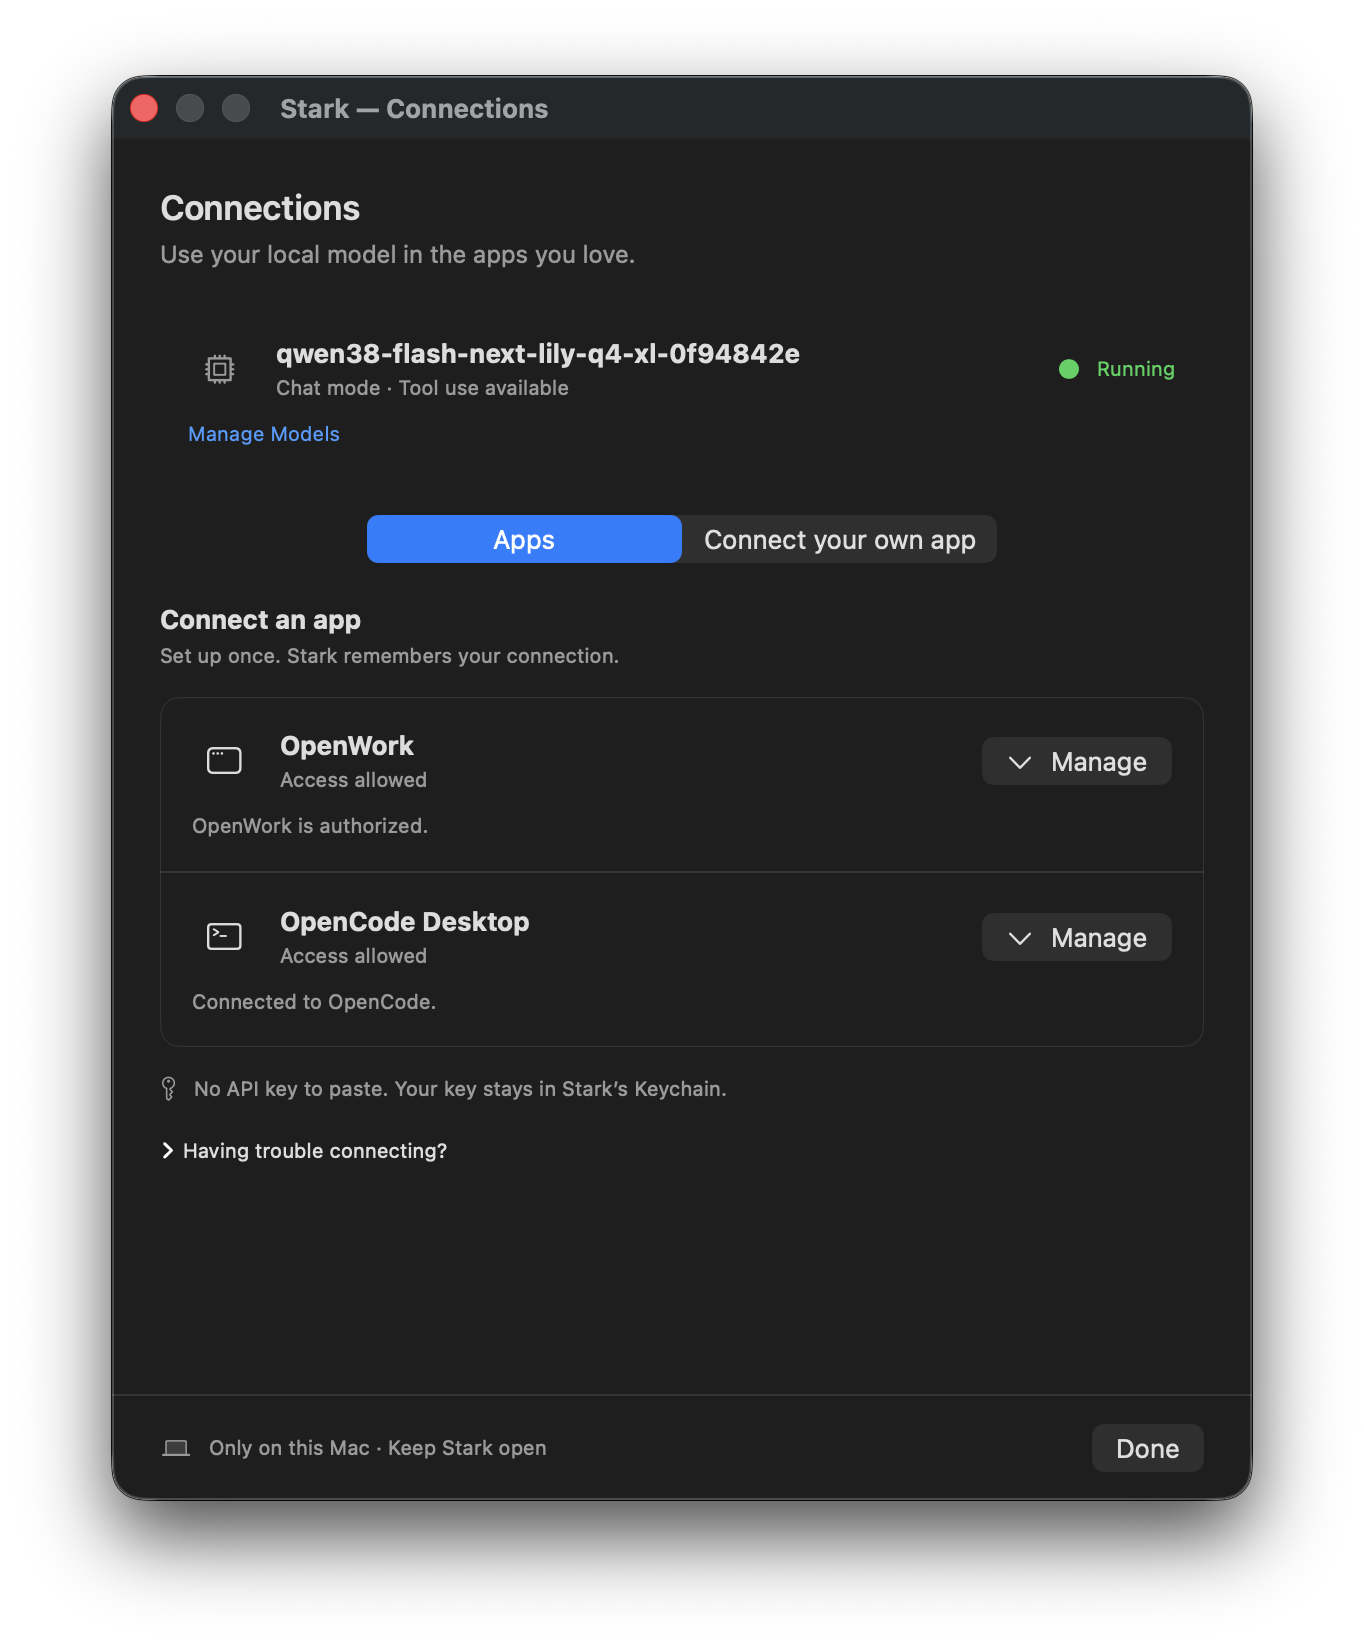
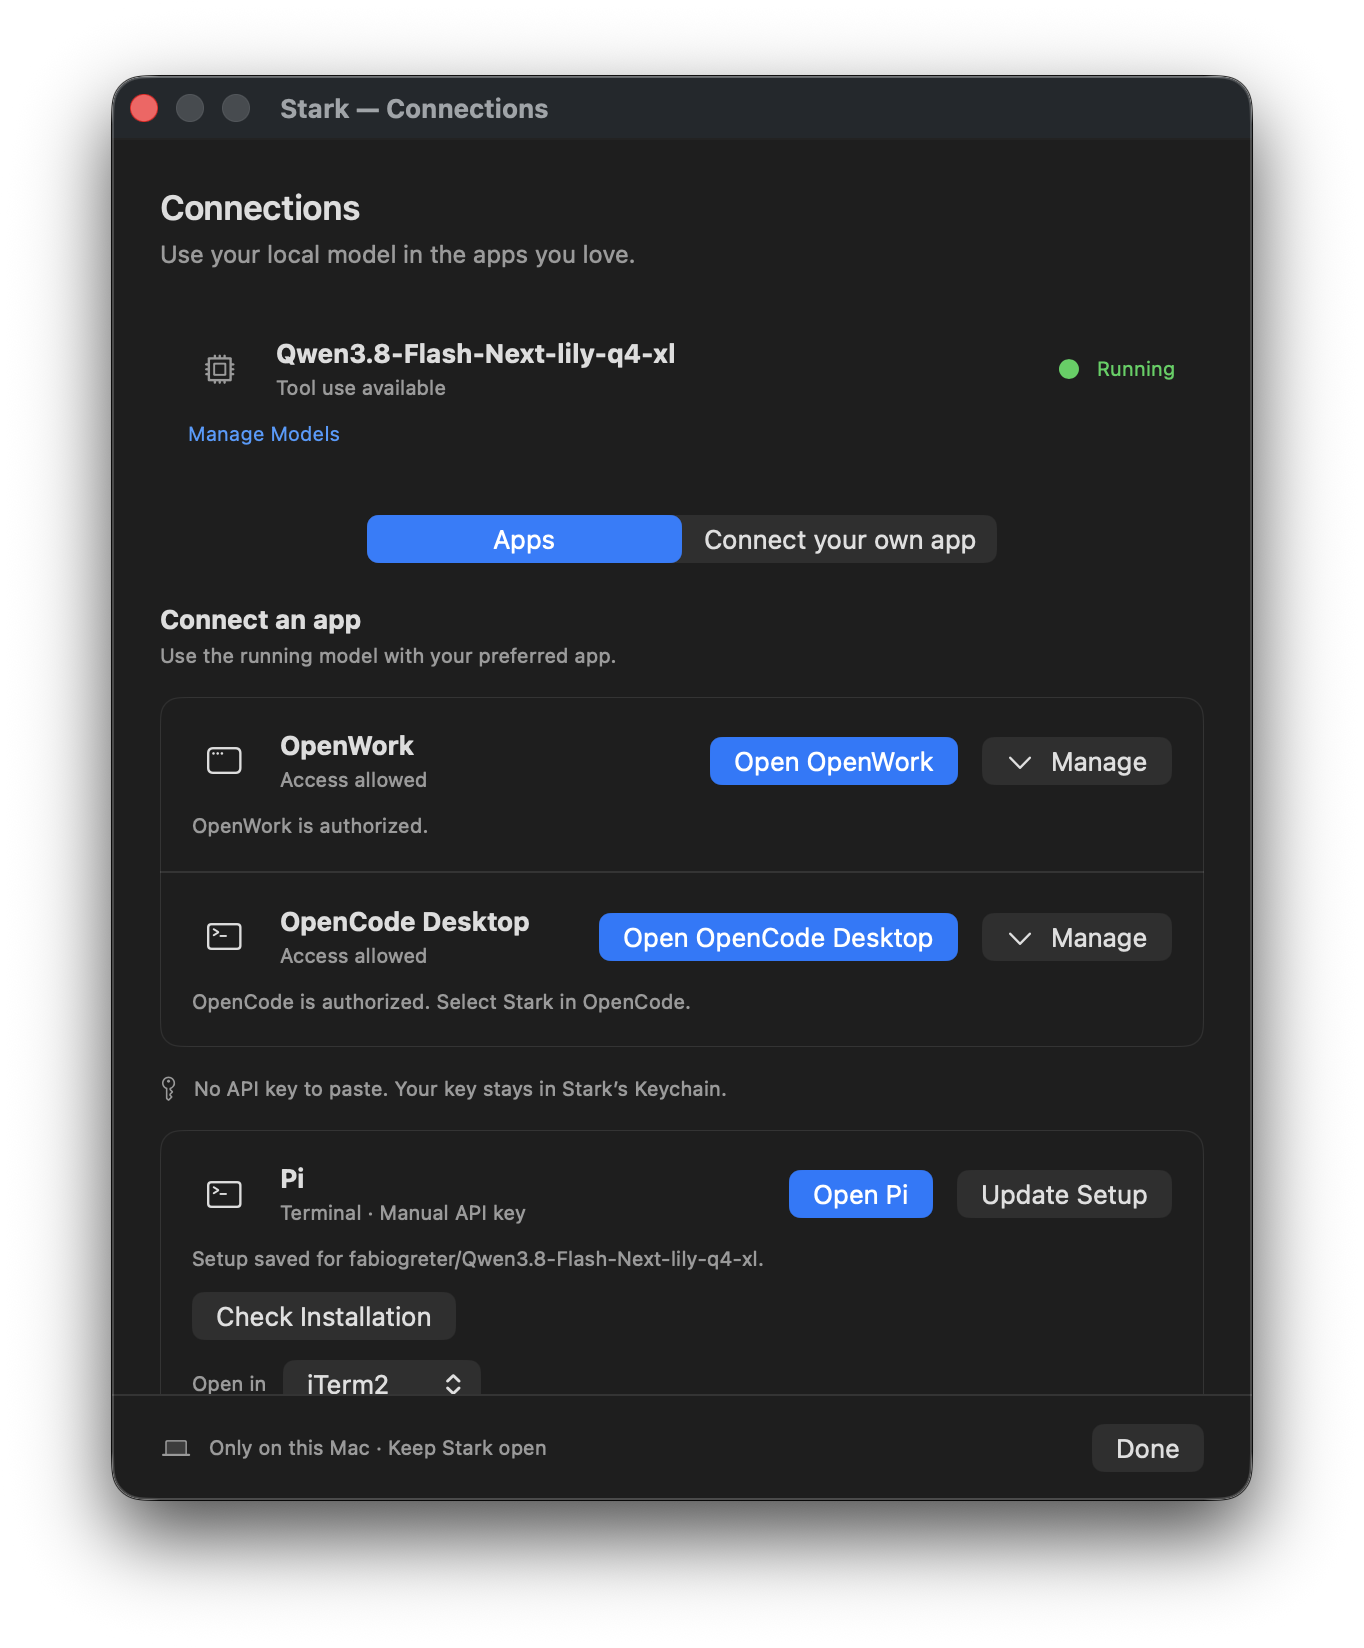
docs(site): refresh homepage product screenshots
AI-Assisted: codex

diff --git a/website/public/index.html b/website/public/index.html
@@ -50,9 +50,9 @@
     <section class="product-section section-pad wrap" id="product" aria-labelledby="product-title">
       <div class="story-heading"><p class="eyebrow">MEET THE MAC APP</p><h2 id="product-title">A home for your local AI.</h2><p>Choose a model, run it from your menu bar, and start chatting.</p></div>
       <div class="product-gallery">
-        <figure class="product-shot"><div class="product-shot-frame"><img src="assets/stark-guided-setup.png" width="1624" height="1888" alt="Stark Guided Setup connecting a running local model to OpenCode in the beginner flow" loading="lazy" decoding="async"></div><figcaption><span class="shot-index">01 / GET STARTED</span><h3>Find a starting point.</h3><p>Guided setup helps you choose a model for your Mac and connect it to your work.</p></figcaption></figure>
-        <figure class="product-shot"><div class="product-shot-frame"><img src="assets/stark-model-catalog.png" width="1504" height="1546" alt="Stark Manage Models showing installed models, a running model and tabs for the model catalog and source imports" loading="lazy" decoding="async"></div><figcaption><span class="shot-index">02 / MAKE IT YOURS</span><h3>Choose your model.</h3><p>Browse the catalog or import a compatible model.</p></figcaption></figure>
-        <figure class="product-shot"><div class="product-shot-frame"><img src="assets/stark-connections.png" width="1364" height="1648" alt="Stark Connections showing a running local model and access allowed for OpenWork and OpenCode Desktop" loading="lazy" decoding="async"></div><figcaption><span class="shot-index">03 / CONNECT YOUR APPS</span><h3>Open your connected apps.</h3><p>Connect OpenWork, OpenCode Desktop or Pi, then open each one with Stark's running model ready to use.</p></figcaption></figure>
+        <figure class="product-shot"><div class="product-shot-frame"><img src="assets/stark-guided-setup.png?v=20261118" width="1624" height="1888" alt="Stark Guided Setup recommending an already installed model for OpenCode in Beginner mode" loading="lazy" decoding="async"></div><figcaption><span class="shot-index">01 / GET STARTED</span><h3>Find a starting point.</h3><p>Guided setup helps you choose a model for your Mac and connect it to your work.</p></figcaption></figure>
+        <figure class="product-shot"><div class="product-shot-frame"><img src="assets/stark-model-catalog.png?v=20261118" width="1504" height="1546" alt="Stark Manage Models showing the Top Models coding rankings and model search in Advanced mode" loading="lazy" decoding="async"></div><figcaption><span class="shot-index">02 / MAKE IT YOURS</span><h3>Choose your model.</h3><p>Browse the catalog or import a compatible model.</p></figcaption></figure>
+        <figure class="product-shot"><div class="product-shot-frame"><img src="assets/stark-connections.png?v=20261118" width="1364" height="1648" alt="Stark Connections showing launch buttons for OpenWork, OpenCode Desktop and Pi alongside the running model" loading="lazy" decoding="async"></div><figcaption><span class="shot-index">03 / CONNECT YOUR APPS</span><h3>Open your connected apps.</h3><p>Connect OpenWork, OpenCode Desktop or Pi, then open each one with Stark's running model ready to use.</p></figcaption></figure>
       </div>
     </section>
 

diff --git a/docs/archive/runs/2026-11-18-website-screenshot-replacements.md b/docs/archive/runs/2026-11-18-website-screenshot-replacements.md
@@ -1,0 +1,11 @@
+# Website screenshot replacements — 2026-11-18
+
+The owner supplied three screenshots for the homepage product gallery. The repository preserves the original PNG bytes and transparency. The new captures match the existing dimensions and window crop bounds.
+
+| Homepage card | Asset under `website/public/assets/` | Dimensions | SHA-256 |
+| --- | --- | --- | --- |
[3 lines of base64/hex data omitted]
+
+The captures show Guided Setup recommending an installed model, the Top Models coding rankings and search, and the launch buttons for OpenWork, OpenCode Desktop and Pi. Alt text describes each new capture.

diff --git a/website/README.md b/website/README.md
@@ -64,7 +64,7 @@ together.
 
 The owner-supplied logo and screenshots retain their original bytes. See
 [brand provenance](../docs/brand/README.md) and the
-[latest screenshot replacement record](../docs/archive/runs/2026-11-11-website-screenshot-replacements.md).
+[latest screenshot replacement record](../docs/archive/runs/2026-11-18-website-screenshot-replacements.md).
 Keyboard-operable tabs, focus indicators, reduced-motion handling and the skip
 link remain part of the site. `robots.txt`, `sitemap.xml` and `404.html` ship
 alongside the three pages.
